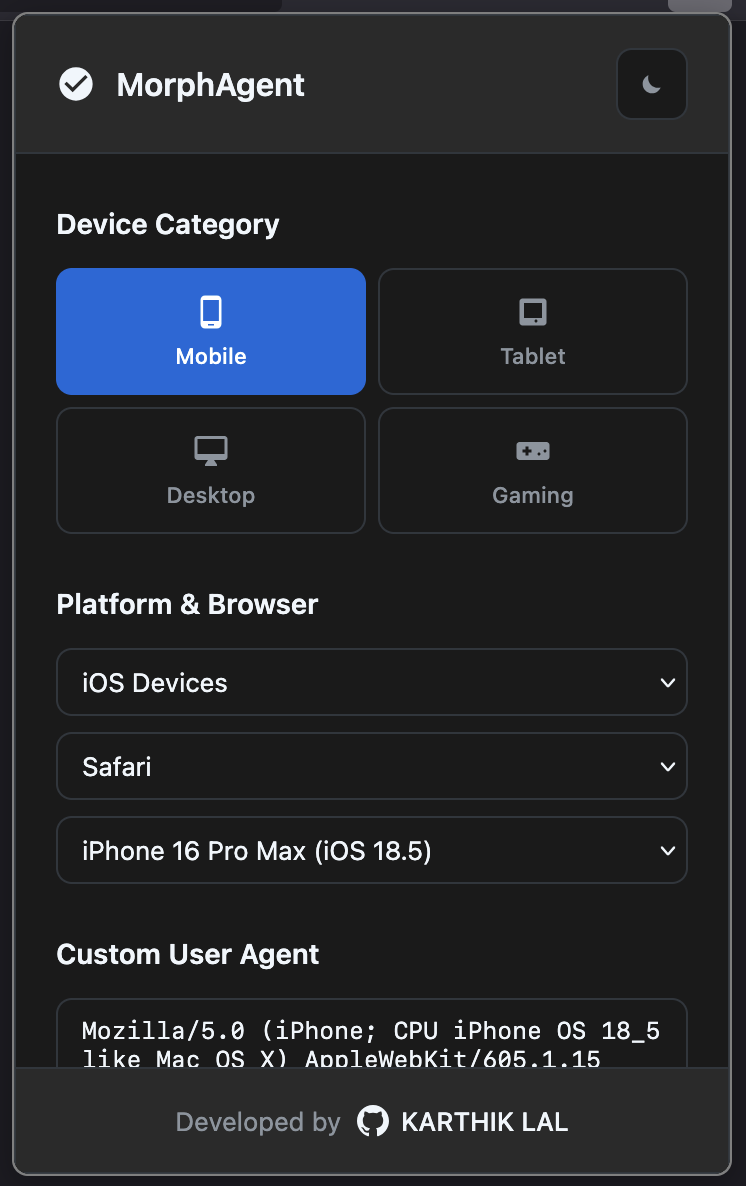
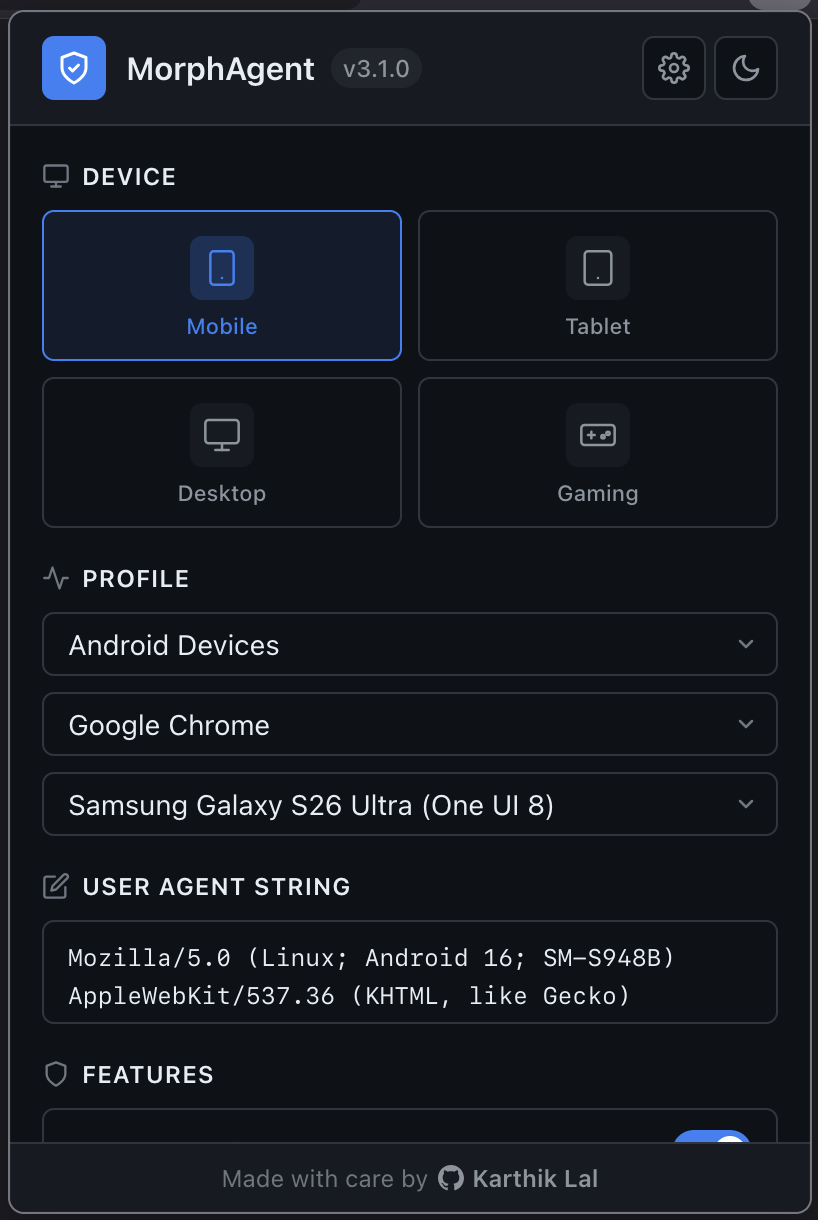
MorphAgent: docs: Add .gitignore and update README.md with features overview; replace touch points images with new feature images

diff --git a/README.md b/README.md
@@ -41,16 +41,16 @@ MorphAgent is now available on the official Mozilla Firefox Add-ons store.
       </td>
    </tr>
    <tr>
-      <th colspan="2" style="text-align:center; font-size:1.1em;">Touch Points Configuration</th>
+      <th colspan="2" style="text-align:center; font-size:1.1em;">Features Overview</th>
    </tr>
    <tr>
       <td>
-         <img src="src/touchpoints_light.png" alt="Touch Points Light" width="300" />
-         <div>Touch Points (Light)</div>
+         <img src="src/features_light.png" alt="Features Light" width="300" />
+         <div>Features (Light)</div>
       </td>
       <td>
-         <img src="src/touchpoints_dark.png" alt="Touch Points Dark" width="300" />
-         <div>Touch Points (Dark)</div>
+         <img src="src/features_dark.png" alt="Features Dark" width="300" />
+         <div>Features (Dark)</div>
       </td>
    </tr>
 </table>
